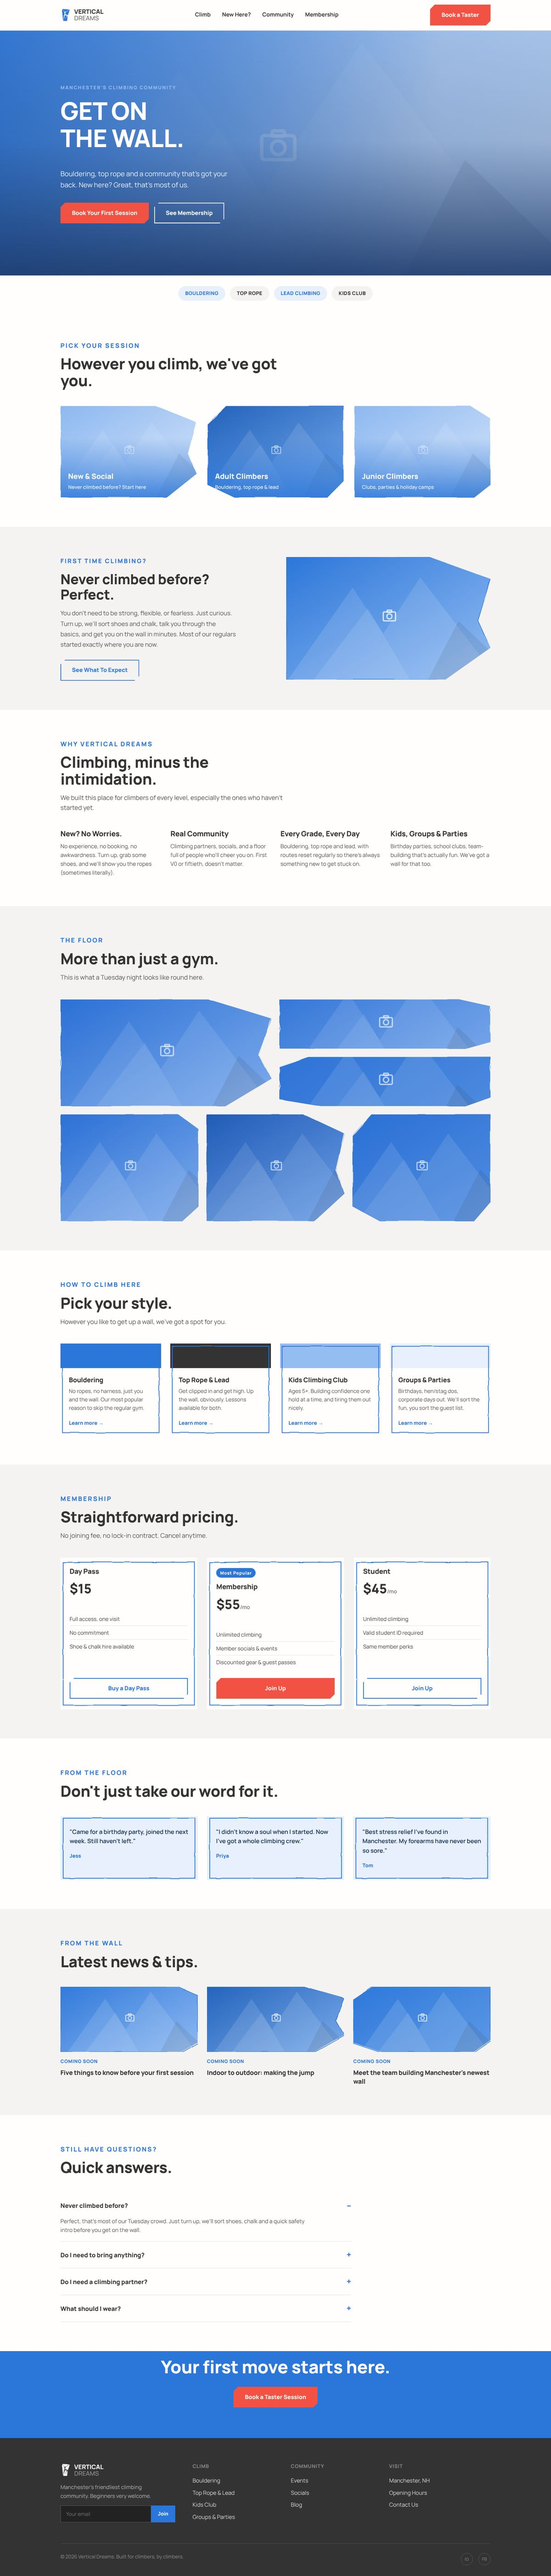
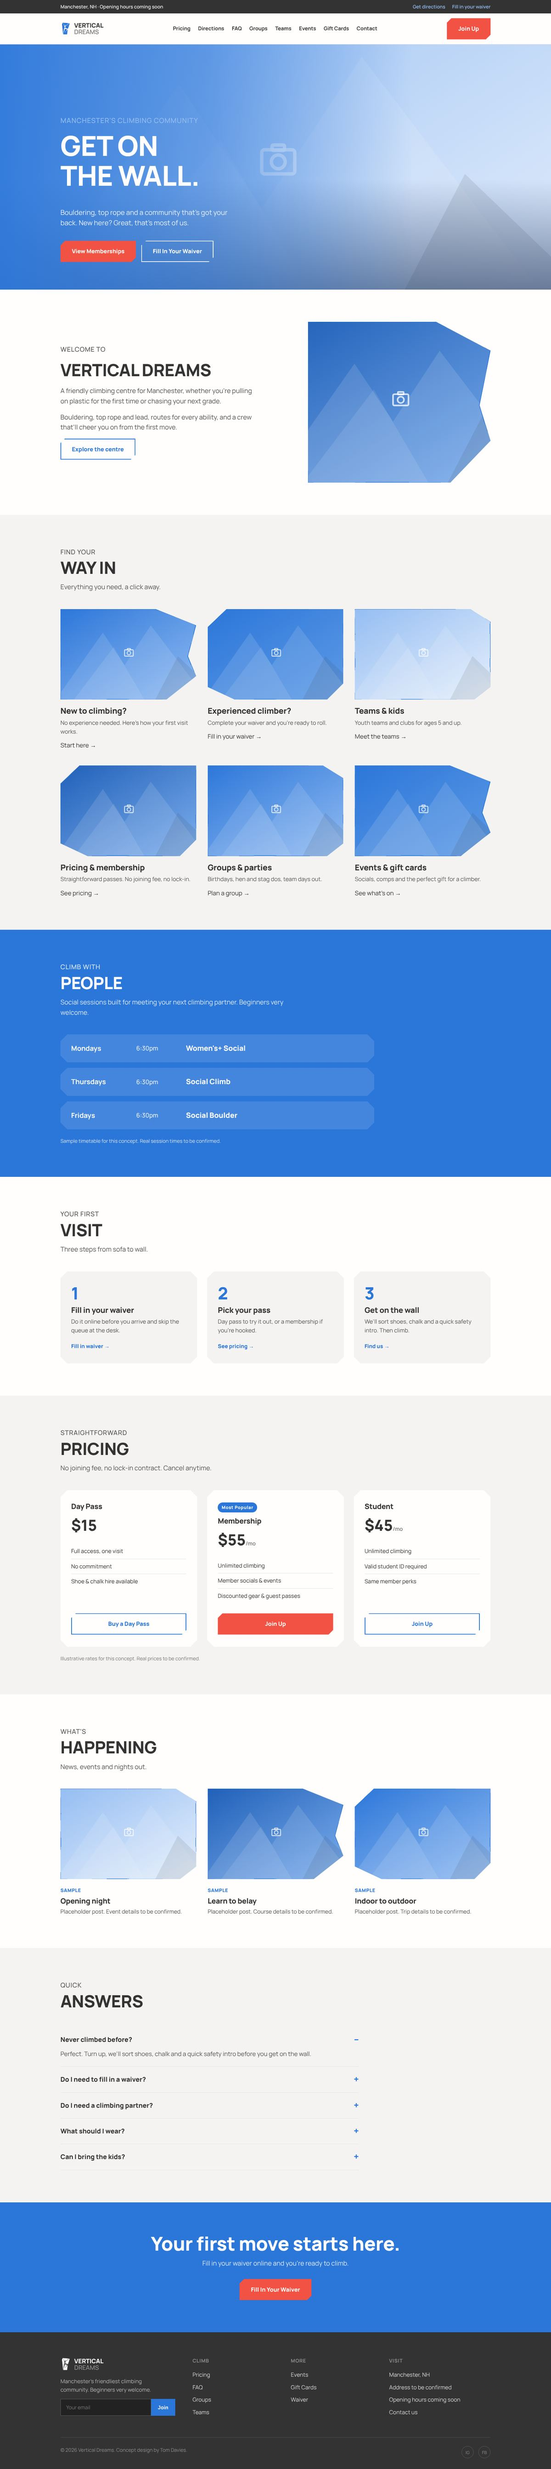
Update Vertical Dreams to homepage v2 and fix the scrolling frame
Swap in screenshots of the v2 homepage concept, a new cover and four
section close-ups. Give the browser frame a fixed height so the
full-page image loads in every browser. Update the copy to match v2.

Claude-Session: https://claude.ai/code/session_01HR2MU3Av9ACfD6nN1yZP1U

diff --git a/proj-vertical-dreams.html b/proj-vertical-dreams.html
@@ -141,7 +141,7 @@ footer{padding:28px 0;border-top:1px solid var(--border)}
 .vd-browser .bar{display:flex;align-items:center;gap:6px;padding:9px 12px;background:#FFFEFC;border-bottom:2px solid #e6e3dd}
 .vd-browser .bar i{width:9px;height:9px;display:block}
 .vd-browser .bar span{flex:1;margin-left:10px;background:#eceae6;height:16px}
-.vd-browser .scroll{max-height:min(70vh,640px);overflow-y:auto;overscroll-behavior:contain}
+.vd-browser .scroll{height:min(70vh,640px);overflow-y:auto;overscroll-behavior:contain}
 .vd-browser img{display:block;width:100%;height:auto}
 .vd-cap{font-family:var(--pixel);font-size:11px;color:var(--muted);margin-top:12px}
 .vd-voice{display:grid;grid-template-columns:1fr 1fr;gap:18px;margin-top:36px}
@@ -233,10 +233,10 @@ footer{padding:28px 0;border-top:1px solid var(--border)}
   <div class="container">
     <p class="sec-label">Website</p>
     <h2 class="sec-head">The new homepage</h2>
-    <div class="prose"><p>A big full-width photo to open, then straight into the question every new visitor has: which session is for me? New and social, adults, or juniors. Next comes a block just for first-timers, then the community, the different ways to climb, simple pricing, a few words from members and a short FAQ.</p><p>I kept red for the four buttons that matter most, like booking a first session. Everything else is blue, black and white. Photos and cards are cut into angular shapes that echo the logo, with a slightly hand-drawn outline.</p></div>
-    <div class="vd-browser"><div class="bar"><i style="background:#F25244"></i><i style="background:#94BDF2"></i><i style="background:#2B76D9"></i><span></span></div><div class="scroll" tabindex="0" aria-label="Full homepage concept, scrollable"><img src="images/vd/home-full.jpg" alt="The full Vertical Dreams homepage concept, from hero to footer" loading="lazy"></div></div>
+    <div class="prose"><p>A big full-width photo to open, a quick welcome, then straight into the question every visitor has: where do I start? There are six ways in, whether you're new, already climbing, bringing the kids or planning a party. After that come the social sessions, three steps for a first visit, simple pricing, what's on and a short FAQ.</p><p>I kept red for the four buttons that matter most, like joining up or filling in a waiver. Everything else is blue, black and white. Photos and cards are cut into angular shapes that echo the logo.</p></div>
+    <div class="vd-browser"><div class="bar"><i style="background:#F25244"></i><i style="background:#94BDF2"></i><i style="background:#2B76D9"></i><span></span></div><div class="scroll" tabindex="0" aria-label="Full homepage concept, scrollable"><img src="images/vd/home-full.jpg" alt="The full Vertical Dreams homepage concept, from hero to footer" loading="eager" width="1200" height="5371"></div></div>
     <p class="vd-cap">The full homepage. Scroll inside the frame. Placeholder photography.</p>
-    <div class="gallery vd-gal" style="--cols:2"><figure><img src="images/vd/home-sessions.jpg" alt="Three session tiles: New and Social, Adult Climbers, Junior Climbers" loading="lazy"><figcaption class="vd-cap">Pick your session. Placeholder photography.</figcaption></figure><figure><img src="images/vd/home-pricing.jpg" alt="Three pricing cards: Day Pass, Membership and Student" loading="lazy"><figcaption class="vd-cap">Simple pricing. Sample prices.</figcaption></figure></div>
+    <div class="gallery vd-gal" style="--cols:2"><figure><img src="images/vd/home-way-in.jpg" alt="Six cards for finding your way in: new to climbing, experienced, teams and kids, pricing, groups, events" loading="lazy"><figcaption class="vd-cap">Find your way in. Placeholder photography.</figcaption></figure><figure><img src="images/vd/home-sessions.jpg" alt="A blue band listing weekly social sessions" loading="lazy"><figcaption class="vd-cap">Social sessions. Sample timetable.</figcaption></figure><figure><img src="images/vd/home-steps.jpg" alt="Three numbered steps for a first visit: waiver, pass, wall" loading="lazy"><figcaption class="vd-cap">Your first visit in three steps.</figcaption></figure><figure><img src="images/vd/home-pricing.jpg" alt="Three pricing cards: Day Pass, Membership and Student" loading="lazy"><figcaption class="vd-cap">Simple pricing. Sample prices.</figcaption></figure></div>
 
   </div>
 </section>
@@ -246,14 +246,14 @@ footer{padding:28px 0;border-top:1px solid var(--border)}
     <p class="sec-label">Voice</p>
     <h2 class="sec-head">The voice</h2>
     <div class="vd-voice"><div class="old"><span class="t">Old</span><p>Vertical Dreams offers something for everyone.</p></div><div class="new"><span class="t">New</span><p>Bouldering, top rope and a community that's got your back. New here? Great, that's most of us.</p></div></div>
-    <ul class="vd-lines"><li>New? No worries. No experience, no booking, no awkwardness.</li><li>Leave the jeans at home.</li><li>Your first move starts here.</li></ul>
+    <ul class="vd-lines"><li>Three steps from sofa to wall.</li><li>Leave the jeans at home.</li><li>Your first move starts here.</li></ul>
 
   </div>
 </section>
 
 <section class="proj-section reveal ">
   <div class="container">
-    <div class="note"><p class="label-tag">What's next</p><div class="prose"><p>This is a concept for now. The prices, reviews and blog posts on it are placeholders, and so is the photography. The next step is real photos of the gym, real prices and proper testing on phones.</p></div></div>
+    <div class="note"><p class="label-tag">What's next</p><div class="prose"><p>This is a concept for now. The prices, session times and event posts on it are placeholders, and so is the photography. The next step is real photos of the gym, real prices and proper testing on phones.</p></div></div>
 
   </div>
 </section>

diff --git a/island.html b/island.html
@@ -213,7 +213,7 @@ const LOCS = [
   { id:"crag", title:"CragCraft", kind:"Project", place:"The crag, out on the side trail", fp:[5, 11, 4, 4], top:5.6, accent:"#e85d75",
     meta:"Side project, 2026", summary:"What would it take to make climbing holds out of real rock? I'm finding out. So far I've made my first holds from Welsh slate from Dinorwig Quarry, and given the idea a name, a brand and a website design.", sections:[["The idea", "Indoor holds are all shaped by people. Real rock isn't, so no two CragCraft holds will ever be the same."], ["Still growing", "It isn't a business yet. Pop back later and there might be more holds on the wall."]], tags:["Side project", "Brand identity", "Web concept"], links:[{"href": "proj-cragcraft.html", "label": "See the CragCraft project"}] },
   { id:"vd", title:"Vertical Dreams", kind:"Project", place:"The climbing hall, out on the side trail", fp:[5, 16, 4, 5], top:5.4, accent:"#94BDF2",
-    meta:"Self-initiated concept, 2026", summary:"Climbing has come a long way from a homemade board at the back of someone's garage. Big chains now set the bar for what a gym should look and feel like, and it's easy for small independents to get left behind. So I took one, Vertical Dreams in Manchester, New Hampshire, and asked how far I could bring its brand up to date.", sections:[["Colours off the walls", "The blues and the red come straight off the climbing walls. I checked them against the three most common kinds of colour blindness too, because climbing's for everyone."], ["The little climber", "The logo is a climber mid-move, with arms and legs arranged to spell V and D. Have a look. It took a while."], ["A friendlier front door", "The old site had eight menus and still listed a gym that had closed. The new homepage starts with the question most visitors arrive with: which session's for me?"]], tags:["Logo", "Brand system", "Web concept"], links:[{"href": "proj-vertical-dreams.html", "label": "See the Vertical Dreams project"}] },
+    meta:"Self-initiated concept, 2026", summary:"Climbing has come a long way from a homemade board at the back of someone's garage. Big chains now set the bar for what a gym should look and feel like, and it's easy for small independents to get left behind. So I took one, Vertical Dreams in Manchester, New Hampshire, and asked how far I could bring its brand up to date.", sections:[["Colours off the walls", "The blues and the red come straight off the climbing walls. I checked them against the three most common kinds of colour blindness too, because climbing's for everyone."], ["The little climber", "The logo is a climber mid-move, with arms and legs arranged to spell V and D. Have a look. It took a while."], ["A friendlier front door", "The old site had eight menus and still listed a gym that had closed. The new homepage gets straight to the question most visitors arrive with: where do I start?"]], tags:["Logo", "Brand system", "Web concept"], links:[{"href": "proj-vertical-dreams.html", "label": "See the Vertical Dreams project"}] },
   { id:"og", title:"The Open Group", kind:"Experience", place:"The tower, right at the top of the path", fp:[7, 0, 4, 4], top:9.4, accent:"#7fb2e5",
     meta:"Digital Designer, 2022 to present", summary:"I'm the Digital Designer at The Open Group, and I lead creative on a lot of our projects. We're a global standards body, which mostly means making very technical things easier to understand.", sections:[["Summit season", "Four global summits a year. I design how they look, then film and edit the videos myself. At London 2023 I made 32 videos in three days, which I'm still quite proud of. In 2025 our event content helped bring in five new memberships, worth around $100K a year."], ["Other bits I look after", "I work with our developers to keep the brand right across the website, I wrote our guidelines for using AI imagery safely, and I've put together a proposal for refreshing the whole brand."]], tags:["Event design", "Video", "Brand", "Explainers"], links:[{"href": "proj-b2b-video.html", "label": "Watch the event videos"}, {"href": "proj-open-group-brand-refresh.html", "label": "See the brand refresh"}, {"href": "proj-it4it.html", "label": "See the IT4IT explainers"}] },
   { id:"cic", title:"Community Integrated Care", kind:"Experience", place:"The care home, along the west path", fp:[0, 6, 4, 5], top:4.4, accent:"#e8a07a",
